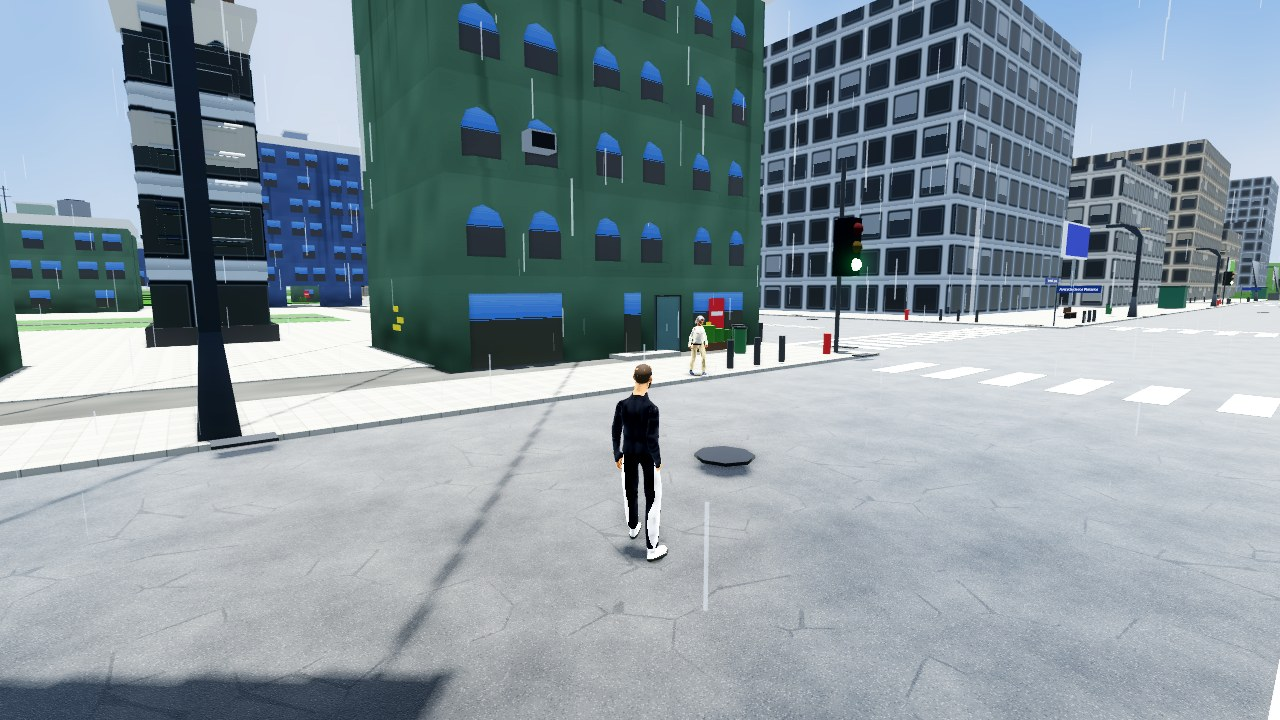
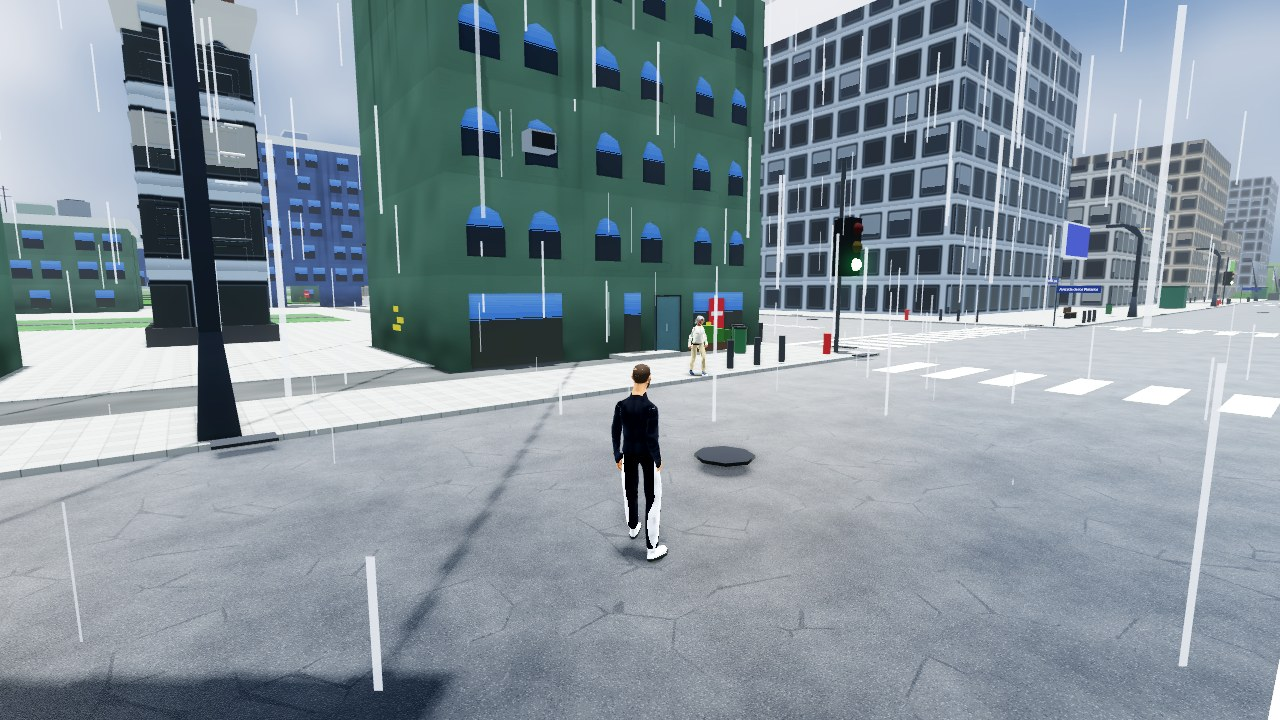
S6: capturas del clima en la ciudad y del paraguas de cerca
Claude-Session: https://claude.ai/code/session_015HWWmo9PWZavoEcwL8dfWu

diff --git a/docs/PLAN_DEL_LUNES.md b/docs/PLAN_DEL_LUNES.md
@@ -454,7 +454,7 @@ para tapar el músculo y borraba las arrugas y el tejido; ahora quita el múscul
 en 0,4 (`p4_ropa_despues.jpg`; antes = `p1_postura_despues.jpg`). La piel desnuda iba con rugosidad y especular de tela
 (brillo plástico en nariz y labios): ahora rugosidad 0,76, especular 0,14 y subsuperficie 0,22 (`p4_cara_{antes,despues}.jpg`; en la captura el cambio es SUTIL: el
 brillo que queda en nariz y labios viene de la luz de borde `RIM` y de la cara de frente al sol; pendiente revisarlo con la cámara real).
-P3 HECHO 27-10 (`ideas/p3_puertas`, `p3_escaleras`, `p3_banquillo_tour`): vecinos que abren las puertas de las entradas (`PuertaVida`: llegan, tienden la mano, la hoja gira, entran/salen), gente que sube y baja escaleras peldaño a peldaño con el ciclo de paso ajustado (`EscaleraVida`: bocas del metro, escalinata del ayuntamiento, estación del teleférico) y los 5 mejores suplentes sentados en el banquillo local de la visita al estadio (`BanquilloTour`). La grada de la visita ya lleva hinchada (35 % de ocupación, VAT). S6 PARAGUAS (27-10, `ParaguasVida`, `ideas/s6_paraguas`, `capturas_personajes/s6_paraguas.jpg`): con clima de lluvia o tormenta (`Mundo.clima()`) los peatones abren un paraguas sobre la cabeza (6 colores apagados), caminan un 25 % más rápido y hasta 5 se resguardan unos 6-10 s bajo la marquesina de una entrada (a < 4,5 m) con el paraguas cerrado; al escampar se recoge todo. El paraguas va en la MANO derecha (BoneAttachment3D a hand_r) con el brazo levantado (clip «caminar_paraguas», el caminar con brazo y antebrazo fijados; eje corregido 35°). LLUVIA EN LA CIUDAD (`PrecipitacionCiudad`: dos emisores que siguen a la cámara, topes de partículas 1800/4200/5200 según calidad frente a ~15 000 en el partido; suelo mojado `CityBuilder.mojar`; capturas `s6_lluvia_ciudad_{seco,lluvia}.jpg`; memoria del proceso 5230 → 5233 MB con 4200 partículas en software). PENDIENTE: oscurecer cielo y sol con lluvia (a mediodía sigue el sol pleno), sonido de lluvia en la calle, revisar en Forward+. P4 pasada 2 (27-10, CONTACTO): los peatones llevan una mancha de sombra redonda y suave bajo los pies (`PeatonQ.sombra_contacto`, una malla y un material compartidos, hasta 70 m) para que no «floten» más allá del alcance de la sombra del sol (`ideas/p4_contacto`, `capturas_personajes/p4_contacto_antes_despues.jpg`, arriba antes, abajo después). LOD SIN SALTOS: las mallas del peatón se disuelven con tramado (`VISIBILITY_RANGE_FADE_SELF`) en los 20 m de margen en vez de desaparecer de golpe (solo Forward+/Mobile; en Compatibility sigue el salto). Queda en P4: pelo con mechones (pide mallas mejores). Falta P3: capturas de escaleras en Forward+, clips propios de abrir puerta/subir escalón (el pack gratuito solo trae «Interact»), peatones que entran en tiendas pequeñas (no tienen puerta registrada); y P4: pelo (mechones poligonales). PROBADO Y DESCARTADO (27-10): suavizar las normales de las 4 mallas de pelo del pack
+P3 HECHO 27-10 (`ideas/p3_puertas`, `p3_escaleras`, `p3_banquillo_tour`): vecinos que abren las puertas de las entradas (`PuertaVida`: llegan, tienden la mano, la hoja gira, entran/salen), gente que sube y baja escaleras peldaño a peldaño con el ciclo de paso ajustado (`EscaleraVida`: bocas del metro, escalinata del ayuntamiento, estación del teleférico) y los 5 mejores suplentes sentados en el banquillo local de la visita al estadio (`BanquilloTour`). La grada de la visita ya lleva hinchada (35 % de ocupación, VAT). S6 PARAGUAS (27-10, `ParaguasVida`, `ideas/s6_paraguas`, `capturas_personajes/s6_paraguas.jpg`): con clima de lluvia o tormenta (`Mundo.clima()`) los peatones abren un paraguas sobre la cabeza (6 colores apagados), caminan un 25 % más rápido y hasta 5 se resguardan unos 6-10 s bajo la marquesina de una entrada (a < 4,5 m) con el paraguas cerrado; al escampar se recoge todo. El paraguas va en la MANO derecha (BoneAttachment3D a hand_r) con el brazo levantado (clip «caminar_paraguas», el caminar con brazo y antebrazo fijados; eje corregido 35°). LLUVIA EN LA CIUDAD (`PrecipitacionCiudad`: dos emisores que siguen a la cámara, topes de partículas 1800/4200/5200 según calidad frente a ~15 000 en el partido; suelo mojado `CityBuilder.mojar`; capturas `s6_lluvia_ciudad_{seco,lluvia}.jpg`; memoria del proceso 5230 → 5233 MB con 4200 partículas en software). CLIMA EN LA CIUDAD (`ClimaCiudad`, usa `Ambience.CLIMA_PARTIDO`): con lluvia/tormenta/nublado/niebla el cielo se aplana a gris sin disco solar, el sol baja de energía y se difumina, más niebla; gotas largas y claras; ruido de lluvia cada 3 s por el bus de ambiente (`lluvia_ambiente`/`lluvia_fuerte`); capturas `s6_lluvia_ciudad_{lluvia,cerca}.jpg` (la de cerca: dos peatones con el paraguas en la mano). PENDIENTE: revisar en Forward+. P4 pasada 2 (27-10, CONTACTO): los peatones llevan una mancha de sombra redonda y suave bajo los pies (`PeatonQ.sombra_contacto`, una malla y un material compartidos, hasta 70 m) para que no «floten» más allá del alcance de la sombra del sol (`ideas/p4_contacto`, `capturas_personajes/p4_contacto_antes_despues.jpg`, arriba antes, abajo después). LOD SIN SALTOS: las mallas del peatón se disuelven con tramado (`VISIBILITY_RANGE_FADE_SELF`) en los 20 m de margen en vez de desaparecer de golpe (solo Forward+/Mobile; en Compatibility sigue el salto). Queda en P4: pelo con mechones (pide mallas mejores). Falta P3: capturas de escaleras en Forward+, clips propios de abrir puerta/subir escalón (el pack gratuito solo trae «Interact»), peatones que entran en tiendas pequeñas (no tienen puerta registrada); y P4: pelo (mechones poligonales). PROBADO Y DESCARTADO (27-10): suavizar las normales de las 4 mallas de pelo del pack
 (promedio por vértice) empeora: las tarjetas de mechón comparten vértices y salen manchas claras/oscuras; el pelo pide mallas
 mejores (o más cortes del pack de Quaternius), no un cambio de sombreado. VEREDICTO DEL DUEÑO (27-10): «MEJORAR» (P1-P3 no bastan: seguir subiendo anatomía, movimiento, animaciones y acabado; la C2 de ciudad sigue hasta agotar P0 y P1).
 
